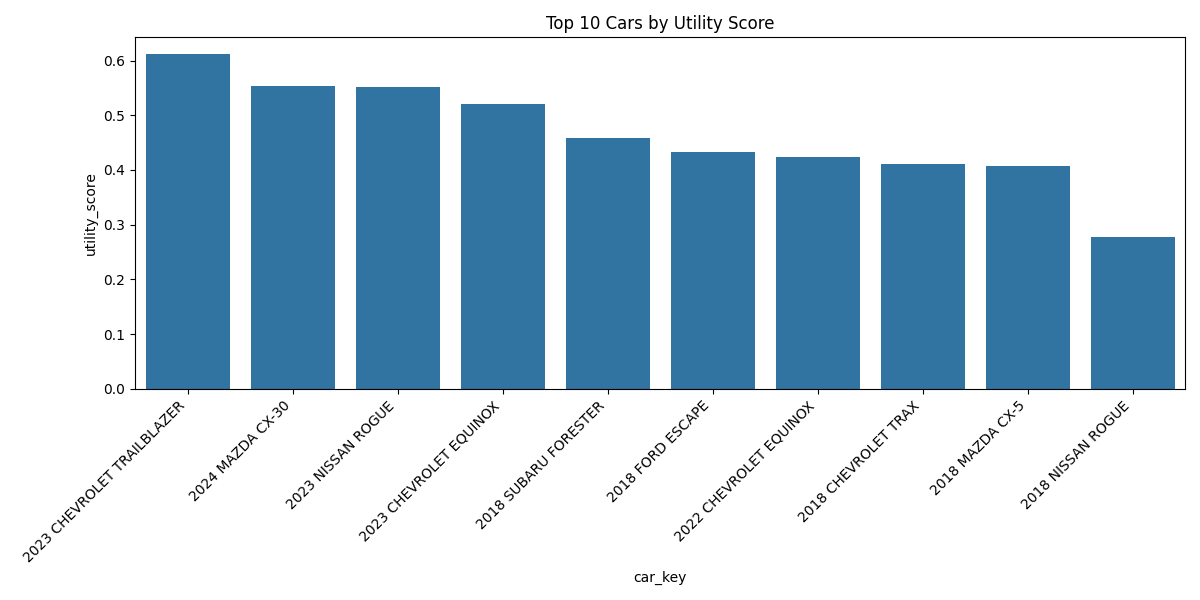
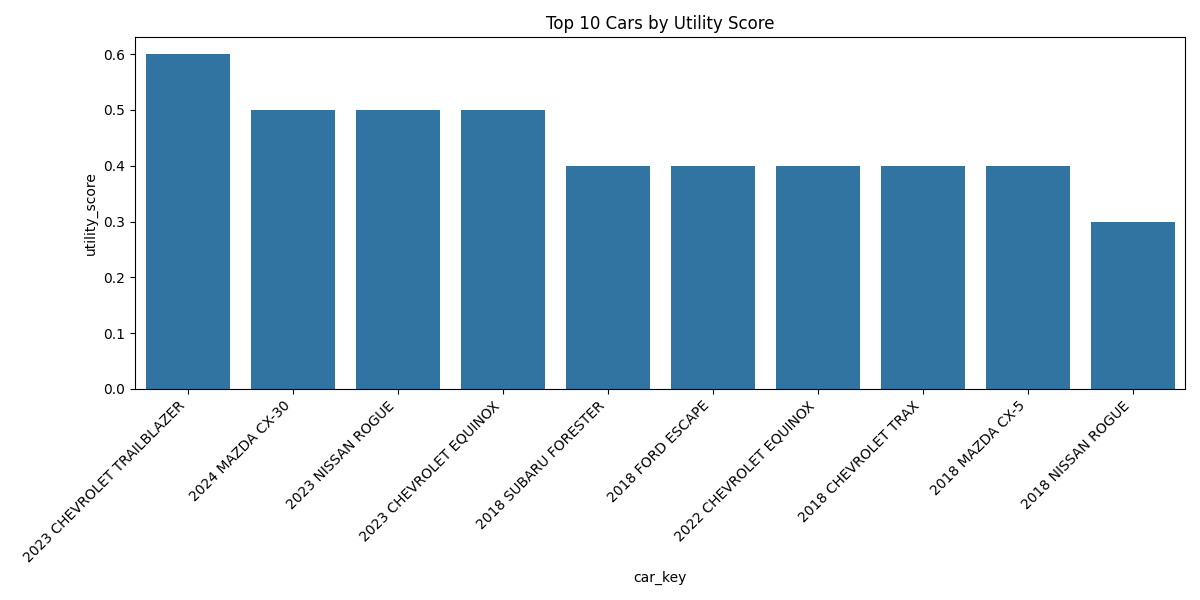
updated weights for utility score

diff --git a/scripts/1_cleaner.py b/scripts/1_cleaner.py
@@ -27,201 +27,28 @@ fuel_df['car_key'] = (
 # merging the fields on the new key
 merged_df = pd.merge(safety_df, fuel_df, on='car_key', how='outer')
 
-# deleting duplicate and unnecessary fields
-merged_df = merged_df.drop(
-    columns=[
-        'MAKE', 'MODEL', 'MODEL_YR','VEHICLE_CLASS',
-        'PRODUCTION_RELEASE',
-        'BODY_FRAME',
-        'SEAT_LOC',
-        'SEAT_LOC_COMMENTS',
-        'MIN_GROSS_WEIGHT',
-        'MAX_GROSS_WEIGHT',
-        'UPPER_BELT_ANCHORAGE',
-        'UPPER_BELT_ANCHORAGE_LOC',
-        'SEAT_BELT_PRETENSIONER',
-        'SEAT_BELT_PRETENSIONER_LOC',
-        'LOAD_LIMITERS',
-        'LOAD_LIMITERS_LOC',
-        'FRNT_BELT_INDICATOR',
-        'FRNT_BELT_LOC',
-        'REAR_BELT_INDICATOR',
-        'LATCH_REAR_POSITION',
-        'HEAD_SAB',
-        'HEAD_SAB_TYPE',
-        'HEAD_SAB_LOC',
-        'HEAD_SAB_MOUNT_LOC',
-        'HEAD_SAB_MEET_REQUIREMENTS',
-        'HEAD_SAB_DEPLOY_IN_ROLLOVER',
-        'TORSO_SAB',
-        'TORSO_SAB_TYPE',
-        'TORSO_SAB_LOC',
-        'TORSO_SAB_MOUNT_LOC',
-        'KNEE_BOLSTERS',
-        'KNEE_BOLSTERS_LOC',
-        'ADL',
-        'HEAD_RESTRAINT_IND',
-        'DYNAMIC_HEAD_RESTRAINT_IND',
-        'BETI',
-        'BLIND_SPOT_DETECTION',
-        'DAY_RUN_LIGHTS',
-        'ADAPTIVE_CRUISE_CONTROL',
-        'ABS',
-        'ARS',
-        'ARS_LOC',
-        'AUTO_CRASH_NOTIFICATION',
-        'CRASH_DATA_RECORDER',
-        'ANTI_THEFT_DEVICE',
-        'ANTI_THEFT_DEVICE_TYPE',
-        'FRNT_COLLISION_WARNING',
-        'NHTSA_FRNT_COLLISION_WARNING',
-        'NHTSA_FCW_EVALUATION',
-        'LANE_DEPARTURE_WARNING',
-        'NHTSA_LANE_DEPARTURE_WARNING',
-        'NHTSA_LDW_EVALUATION',
-        'CRASH_IMMINENT_BRAKE',
-        'NHTSA_CRASH_IMMINENT_BRAKE',
-        'NHTSA_CIB_EVALUATION',
-        'DYNAMIC_BRAKE_SUPPORT',
-        'NHTSA_DYNAMIC_BRAKE_SUPPORT',
-        'NHTSA_DBS_EVALUATION',
-        'NHTSA_ESC',
-        'PELVIS_SAB',
-        'PELVIS_SAB_TYPE',
-        'PELVIS_SAB_LOC',
-        'PELVIS_SAB_MOUNT_LOC',
-        'FRNT_TEST_NO',
-        'FRNT_VIN',
-        'FRNT_DRIV_STARS',
-        'FRNT_PASS_STARS',
-        'FRNT_SAFETY_CONCERN_DRIV',
-        'FRNT_SAFETY_CONCERN_PASS',
-        'FRNT_FOOT_NOTES',
-        'FRNT_FOOT_NOTES_PASS',
-        'OVERALL_FRNT_STARS',
-        'CURB_WEIGHT',
-        'FRNT_TESTED_WITH',
-        'HIC15_DRIV',
-        'CHEST_DEFL_DRIV',
-        'LEFT_FEMUR_DRIV',
-        'RIGHT_FEMUR_DRIV',
-        'NIJ_DRIV',
-        'NECK_TENS_DRIV',
-        'NET_COMP_DRIV',
-        'HIC15_PASS',
-        'CHEST_DEFL_PASS',
-        'LEFT_FEMUR_PASS',
-        'RIGHT_FEMUR_PASS',
-        'NIJ_PASS',
-        'NECK_TENS_PASS',
-        'NET_COMP_PASS',
-        'SIDE_TEST_NO',
-        'SIDE_VIN',
-        'SIDE_DRIV_STARS',
-        'SIDE_PASS_STARS',
-        'SIDE_BARRIER_STAR',
-        'COMB_FRNT_STAR',
-        'COMB_REAR_STAR',
-        'SIDE_SAFETY_CONCERN_DRIV',
-        'SIDE_SAFETY_CONCERN_PASS',
-        'SIDE_FOOT_NOTES',
-        'SIDE_FOOT_NOTES_PASS',
-        'OVERALL_SIDE_STARS',
-        'SIDE_TESTED_WITH',
-        'SIDE_HIC_36_DRIV',
-        'RIB_DEFLECTION_DRIV',
-        'ABDOMEN_FORCE_DRIV',
-        'SYMPHYSIS_FORCE_DRIV',
-        'SIDE_HIC_36_PASS',
-        'PELVIC_FORCE_PASS',
-        'POLE_TEST_NO',
-        'POLE_VIN',
-        'SIDE_POLE_STARS',
-        'POLE_SAFETY_CONCERN',
-        'POLE_FOOT_NOTES',
-        'POLE_TESTED_WITH',
-        'POLE_HIC_36_DRIV',
-        'PELVIC_FORCE',
-        'STATIC_STABI_FACTOR',
-        'TIP',
-        'ROLL_SAFETY_CONCERN',
-        'ROLL_FOOT_NOTES',
-        'NHTSA_BACKUP_CAMERA',
-        'BACKUP_CAMERA',
-        'barrels08',
-        'barrelsA08',
-        'charge120',
-        'charge240',
-        'city08',
-        'city08U',
-        'cityA08',
-        'cityA08U',
-        'cityCD',
-        'cityE',
-        'cityUF',
-        'co2',
-        'co2A',
-        'co2TailpipeAGpm',
-        'co2TailpipeGpm',
-        'comb08U',
-        'combA08',
-        'combA08U',
-        'combE',
-        'combinedCD',
-        'combinedUF',
-        'eng_dscr',
-        'feScore',
-        'fuelCost08',
-        'fuelCostA08',
-        'fuelType1',
-        'ghgScore',
-        'ghgScoreA',
-        'highway08',
-        'highway08U',
-        'highwayA08',
-        'highwayA08U',
-        'highwayCD',
-        'highwayE',
-        'highwayUF',
-        'hlv',
-        'hpv',
-        'id',
-        'lv2',
-        'lv4',
-        'displ',
-        'drive',
-        'engId',
-        'mpgData',
-        'phevBlended',
-        'pv2',
-        'pv4',
-        'range',
-        'rangeCity',
-        'rangeCityA',
-        'rangeHwy',
-        'rangeHwyA',
-        'UCity',
-        'UCityA',
-        'UHighway',
-        'UHighwayA',
-        'trans_dscr',
-        'tCharger',
-        'sCharger',
-        'atvType',
-        'fuelType2',
-        'rangeA',
-        'evMotor',
-        'mfrCode',
-        'c240Dscr',
-        'charge240b',
-        'c240bDscr',
-        'createdOn',
-        'modifiedOn',
-        'startStop',
-        'phevCity',
-        'phevHwy',
-        'phevComb'
-    ])
+# only keeping necessary fields
+merged_df = merged_df[
+    ['BODY_STYLE',
+     'VEHICLE_TYPE',
+     'DRIVE_TRAIN',
+     'NUM_OF_SEATING',
+     'OVERALL_STARS',
+     'ROLLOVER_POSSIBILITY',
+     'ROLLOVER_STARS',
+     'car_key',
+     'comb08',
+     'cylinders',
+     'fuelType',
+     'make',
+     'model',
+     'trany',
+     'VClass',
+     'year',
+     'youSaveSpend',
+     'baseModel',
+     'guzzler'
+    ]]
 
 # check if it worked (comment out after confirming)
 # print(merged_df)

diff --git a/scripts/4_analysis.py b/scripts/4_analysis.py
@@ -17,11 +17,7 @@ if filtered_df is None or agg_df is None:
 # merging the fields on the new key
 merged_df = pd.merge(filtered_df, agg_df, on='car_key', how='outer')
 
-# deleting duplicate & unnecessary fields
-merged_df = (merged_df.drop(
-    columns=['make', 'model', 'year','baseModel','VClass','guzzler',
-             'Nr_Available','BODY_STYLE','VEHICLE_TYPE','DRIVE_TRAIN','fuelType','trany']))
-
+# only keeping necessary fields
 merged_df = merged_df[[
     'car_key',
     'OVERALL_STARS',
@@ -93,7 +89,7 @@ ranked_cars = ranked_cars.sort_values(by='utility_score', ascending=False)
 
 # export data to output folder
 final = get_data.export("output","ranked.csv")
-# ranked_cars.to_csv(final, index=False)
+ranked_cars.to_csv(final, index=False)
 
 # ========================== VISUALIZATION ==========================
 import seaborn as sns
@@ -117,7 +113,7 @@ plt.tight_layout()
 
 # export graph to output folder
 barchart = get_data.export("output","ranked.png")
-# plt.savefig(barchart)
+plt.savefig(barchart)
 
 # table ==========================
 fig, ax = plt.subplots(figsize=(23,5))
